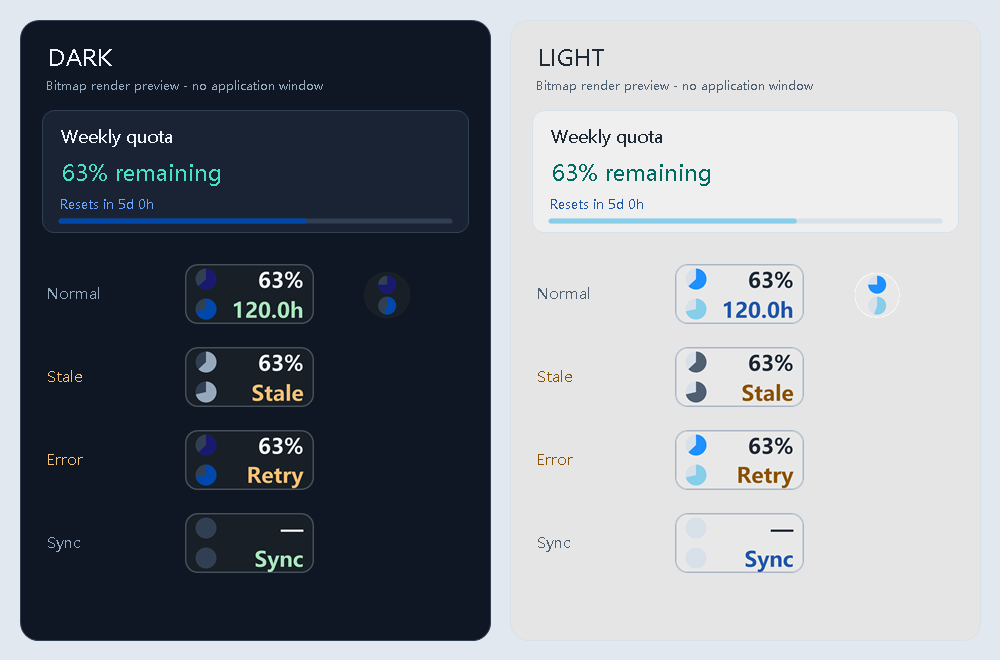
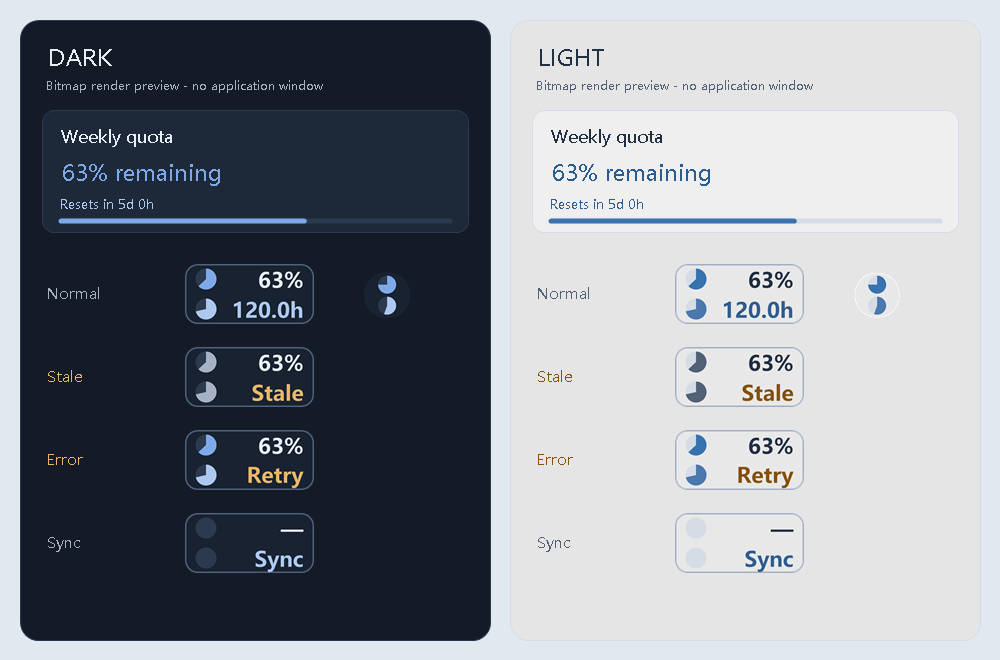
Unify dark and light blue palettes with visible text and graphics

diff --git a/tests/ThemeTests.cs b/tests/ThemeTests.cs
@@ -98,22 +98,31 @@ internal static class ThemeTests
         }
         foreach (string selectedMode in new[] { "dark", "light" }) {
             string mode = selectedMode;
-            Run(mode + " widget and glyph use the selected disk colours", delegate {
+            Run(mode + " normal accents and rendered disks share a coherent blue palette", delegate {
                 SetMode(mode); QuotaWindow full = Sample(); full.UsedPercent = 0; full.ResetsAtUtc = Now.AddDays(7);
                 using (Bitmap widget = Render(2, full, false, false, ""))
                 using (Bitmap glyph = WidgetRenderer.RenderGlyph(64)) {
                     Color quota = widget.GetPixel(28, 20), time = widget.GetPixel(28, 60);
-                    if (mode == "dark") {
-                        foreach (Color pixel in new[] { quota, glyph.GetPixel(36, 18) })
-                            Check(ColorDistance(pixel, Color.FromArgb(25, 25, 112)) < 5, "dark quota disk is MidnightBlue #191970");
-                        foreach (Color pixel in new[] { time, glyph.GetPixel(36, 46) })
-                            Check(ColorDistance(pixel, Color.FromArgb(0, 71, 171)) < 5, "dark time disk is CobaltBlue #0047AB");
-                    } else {
-                        foreach (Color pixel in new[] { quota, glyph.GetPixel(36, 18) })
-                            Check(ColorDistance(pixel, Color.FromArgb(30, 144, 255)) < 5, "light quota disk is DodgerBlue #1E90FF");
-                        foreach (Color pixel in new[] { time, glyph.GetPixel(36, 46) })
-                            Check(ColorDistance(pixel, Color.FromArgb(135, 206, 235)) < 5, "light time disk is SkyBlue #87CEEB");
+                    foreach (Color accent in new[] { quota, time, glyph.GetPixel(36, 18), glyph.GetPixel(36, 46), Theme.Aqua, Theme.Blue, WidgetRenderer.TimeTextColor })
+                        Check(accent.GetHue() >= 205 && accent.GetHue() <= 225, "normal highlights stay in the same blue family instead of mixing green and blue");
+                    Check(ColorDistance(quota, time) >= 20, "quota and time keep subtly distinct shades");
+                }
+            });
+            Run(mode + " rendered disks and progress fills have 3:1 contrast against their track and surfaces", delegate {
+                SetMode(mode); QuotaWindow full = Sample(); full.UsedPercent = 0; full.ResetsAtUtc = Now.AddDays(7);
+                using (Bitmap widget = Render(2, full, false, false, ""))
+                using (Bitmap stale = Render(2, full, true, false, ""))
+                using (Bitmap glyph = WidgetRenderer.RenderGlyph(64)) {
+                    double minimum = Double.MaxValue;
+                    foreach (Color fill in new[] { widget.GetPixel(28, 20), widget.GetPixel(28, 60), stale.GetPixel(28, 20), glyph.GetPixel(36, 18), glyph.GetPixel(36, 46), Theme.WidgetQuotaColor }) {
+                        foreach (Color adjacent in new[] { Theme.Border, Theme.Card, WidgetRenderer.Surface }) {
+                            double front = Luminance(fill), back = Luminance(adjacent);
+                            double ratio = (Math.Max(front, back) + .05) / (Math.Min(front, back) + .05);
+                            minimum = Math.Min(minimum, ratio);
+                            Check(ratio >= 3, "visible fill requires 3:1 against adjacent track/surface, got " + ratio.ToString("0.00", System.Globalization.CultureInfo.InvariantCulture));
+                        }
                     }
+                    Console.WriteLine("GRAPHICS " + mode + " minimum=" + minimum.ToString("0.00", System.Globalization.CultureInfo.InvariantCulture) + ":1");
                 }
             });
             Run(mode + " semantic text meets 4.5:1 contrast on its actual surfaces", delegate {
@@ -211,7 +220,7 @@ internal static class ThemeTests
                 PreviewText(graphics, "Weekly quota", left + 38, 125, 17, Theme.Text); PreviewText(graphics, "63% remaining", left + 38, 157, 22, Theme.Aqua);
                 PreviewText(graphics, "Resets in 5d 0h", left + 38, 194, 13, Theme.Blue);
                 Theme.Rounded(graphics, new RectangleF(left + 38, 218, 394, 5), 2.5f, Theme.Border, null);
-                Theme.Rounded(graphics, new RectangleF(left + 38, 218, 394 * .63f, 5), 2.5f, Theme.WidgetTimeColor, null);
+                Theme.Rounded(graphics, new RectangleF(left + 38, 218, 394 * .63f, 5), 2.5f, Theme.WidgetQuotaColor, null);
                 string[] labels = { "Normal", "Stale", "Error", "Sync" };
                 for (int row = 0; row < 4; row++) {
                     int top = 264 + row * 83; PreviewText(graphics, labels[row], left + 24, top + 19, 15, row == 1 || row == 2 ? Theme.Warning : Theme.Muted);

diff --git a/src/Theme.cs b/src/Theme.cs
@@ -9,15 +9,15 @@ namespace CodexQuotaLite
     internal static class Theme
     {
         private static readonly Palette Dark = new Palette("dark",
-            Color.FromArgb(16, 23, 36), Color.FromArgb(25, 35, 51), Color.FromArgb(48, 63, 82),
-            Color.FromArgb(238, 245, 250), Color.FromArgb(150, 169, 188), Color.FromArgb(70, 224, 196),
-            Color.FromArgb(106, 163, 255), Color.FromArgb(245, 193, 117),
-            Color.FromArgb(24, 31, 39), Color.FromArgb(25, 25, 112), Color.FromArgb(0, 71, 171), Color.FromArgb(168, 229, 188), Color.FromArgb(66, 77, 86));
+            Color.FromArgb(20, 27, 38), Color.FromArgb(29, 40, 56), Color.FromArgb(43, 58, 78),
+            Color.FromArgb(230, 237, 245), Color.FromArgb(164, 178, 196), Color.FromArgb(126, 169, 232),
+            Color.FromArgb(173, 200, 238), Color.FromArgb(230, 182, 106),
+            Color.FromArgb(24, 34, 48), Color.FromArgb(126, 169, 232), Color.FromArgb(173, 200, 238), Color.FromArgb(173, 200, 238), Color.FromArgb(75, 94, 119));
         private static readonly Palette Light = new Palette("light",
-            Color.FromArgb(229, 229, 229), Color.FromArgb(239, 239, 239), Color.FromArgb(216, 224, 234),
-            Color.FromArgb(31, 42, 55), Color.FromArgb(79, 96, 114), Color.FromArgb(0, 107, 97),
-            Color.FromArgb(32, 86, 170), Color.FromArgb(139, 82, 0),
-            Color.FromArgb(232, 232, 232), Color.FromArgb(30, 144, 255), Color.FromArgb(135, 206, 235), Color.FromArgb(32, 86, 170), Color.FromArgb(174, 185, 199));
+            Color.FromArgb(229, 229, 229), Color.FromArgb(239, 239, 239), Color.FromArgb(214, 220, 229),
+            Color.FromArgb(35, 48, 68), Color.FromArgb(82, 97, 118), Color.FromArgb(41, 92, 146),
+            Color.FromArgb(49, 95, 145), Color.FromArgb(132, 82, 12),
+            Color.FromArgb(232, 232, 232), Color.FromArgb(57, 115, 175), Color.FromArgb(75, 120, 173), Color.FromArgb(49, 95, 145), Color.FromArgb(167, 179, 196));
         private static Palette current = Dark;
 
         internal static void Apply(string mode) { current = mode == "light" ? Light : Dark; }

diff --git a/scripts/render-previews.py b/scripts/render-previews.py
@@ -11,17 +11,17 @@ from PIL import Image, ImageDraw, ImageFont
 
 SCALE = 4
 OUTPUT_WIDTH = 360
-BG = (16, 23, 36)
-CARD = (25, 35, 51)
-BORDER = (48, 63, 82)
-TEXT = (238, 245, 250)
-MUTED = (150, 169, 188)
-AQUA = (70, 224, 196)
-BLUE = (106, 163, 255)
-WIDGET_BG = (24, 31, 39)
-QUOTA = (25, 25, 112)
-TIME = (0, 71, 171)
-TIME_TEXT = (168, 229, 188)
+BG = (20, 27, 38)
+CARD = (29, 40, 56)
+BORDER = (43, 58, 78)
+TEXT = (230, 237, 245)
+MUTED = (164, 178, 196)
+AQUA = (126, 169, 232)
+BLUE = (173, 200, 238)
+WIDGET_BG = (24, 34, 48)
+QUOTA = (126, 169, 232)
+TIME = (173, 200, 238)
+TIME_TEXT = BLUE
 
 
 class Canvas:
@@ -100,7 +100,7 @@ def render(plan, english, destination, fonts, version):
         canvas.text(label, 32, y + 8, 215, 22, 12, bold=True)
         canvas.text(str(amount) + "%", 253, y + 7, 75, 23, 19, AQUA, True)
         canvas.round(32, y + 37, 296, 5, 2.5, BORDER)
-        canvas.round(32, y + 37, 296 * amount / 100, 5, 2.5, TIME)
+        canvas.round(32, y + 37, 296 * amount / 100, 5, 2.5, QUOTA)
         canvas.text(countdown, 32, y + 49, 170, 17, 9.5, BLUE)
         canvas.text(reset, 204, y + 49, 124, 17, 9.5, MUTED, align="right")
     canvas.text("Latest reset  09-29 16:09  Regular" if english else "最近重置公告  09-29 16:09  即时重置", 20, top + 84 + cards_height + 10, 262, 28, 11, MUTED)
@@ -120,7 +120,7 @@ def render(plan, english, destination, fonts, version):
     canvas.round(268, top + footer_y, 72, 28, 0, CARD, BORDER)
     canvas.text("Refresh" if english else "立即刷新", 268, top + footer_y, 72, 28, 11, align="center")
     icon_y = top + app_height + 12
-    canvas.round(88.5, icon_y + .5, 85, 39, 8, WIDGET_BG, (66, 77, 86))
+    canvas.round(88.5, icon_y + .5, 85, 39, 8, WIDGET_BG, (75, 94, 119))
     canvas.disk(95, icon_y + 3, 14, windows[0][1], QUOTA)
     hours_left, window_hours = (3.7, 5) if plan == "Plus" else (108.0, 168)
     canvas.disk(95, icon_y + 23, 14, hours_left / window_hours * 100, TIME)

diff --git a/src/DetailsForm.cs b/src/DetailsForm.cs
@@ -198,7 +198,7 @@ namespace CodexQuotaLite
    Theme.Rounded(g,new RectangleF(.5f,.5f,Width-1,Height-1),11*s,Theme.Card,selected?Theme.Border:(Color?)null);
    Theme.Write(g,UiText.WindowLabel(window.Label),12,8,width-105,22,12,Theme.Text,true,s);Theme.Write(g,pending?UiText.T("待更新","Pending"):Theme.Percent(window.RemainingPercent),width-87,7,75,23,pending?13:19,color,true,s);
    RectangleF track=new RectangleF(12*s,37*s,(width-24)*s,5*s);Theme.Rounded(g,track,2.5f*s,Theme.Border,null);
-   if(!pending&&window.RemainingPercent.HasValue&&window.RemainingPercent.Value>0){track.Width*=(float)(window.RemainingPercent.Value/100);Theme.Rounded(g,track,2.5f*s,stale?Theme.Muted:Theme.WidgetTimeColor,null);}
+   if(!pending&&window.RemainingPercent.HasValue&&window.RemainingPercent.Value>0){track.Width*=(float)(window.RemainingPercent.Value/100);Theme.Rounded(g,track,2.5f*s,stale?Theme.Muted:Theme.WidgetQuotaColor,null);}
    string countdown=stale?UiText.T("上次结果 · 已过期","Previous result · Out of date"):pending?UiText.T("已重置 · 待更新","Reset reached · Pending"):Theme.ResetText(window,now);
    Theme.Write(g,countdown,12,49,width-150,17,9.5f,stale||pending?Theme.Warning:Theme.Blue,false,s);
    string reset=window.ResetsAtUtc.HasValue?window.ResetsAtUtc.Value.ToLocalTime().ToString("MM-dd HH:mm"):UiText.T("重置时间未知","Reset unknown");

diff --git a/src/UiDarkControls.cs b/src/UiDarkControls.cs
@@ -176,7 +176,7 @@ namespace CodexQuotaLite
                 {
                     int index = first + row;
                     Rectangle rect = DetailsLayout.PopupRowBounds(Width, rowHeight, row);
-                    if (index == active) Theme.Rounded(e.Graphics, rect, 5, Theme.Border, null);
+                    if (index == active) Theme.Rounded(e.Graphics, rect, 5, Theme.Border, Theme.Aqua);
                     Rectangle text = DetailsLayout.PopupTextBounds(rect);
                     TextRenderer.DrawText(e.Graphics, Convert.ToString(owner.Items[index]), Font, text, Theme.Text,
                         DetailsLayout.SelectorTextFlags);

diff --git a/README.en.md b/README.en.md
@@ -8,7 +8,7 @@ A lightweight Windows widget for Codex quota and reset time, next to the notific
 
 For Windows x64.
 
-Local four-colour revision (still v1.0.4): taskbar and tray disks use MidnightBlue / CobaltBlue in dark mode and DodgerBlue / SkyBlue in light mode. Detail progress bars use CobaltBlue / SkyBlue respectively; text, backgrounds and layout are unchanged. This revision has not replaced the GitHub release assets linked above.
+Local unified-palette revision (still v1.0.4): dark mode uses dark slate surfaces with soft blue highlights; light mode uses gentle gray surfaces with muted blue accents. Disks, quota values, countdowns, progress bars and menus share one blue colour family, with text and meaningful graphics checked for contrast. This revision has not replaced the GitHub release assets linked above.
 
 ![CodexUsage taskbar widget](assets/widget-preview.png)
 
@@ -48,7 +48,7 @@ Requires Windows x64, .NET Framework 4.8 or a newer 4.x version, and Codex insta
 
 Hover for a quick summary; move away or click to dismiss it. Right-click for the menu. The detail header shows the version and a link to the GitHub project.
 
-Change appearance with the Light mode / Dark mode button in the details view, or right-click the widget or tray icon and choose Appearance → Dark mode / Light mode. Language, theme and quota selection share one row. The upper quota / lower time disks use MidnightBlue #191970 / CobaltBlue #0047AB in dark mode, and DodgerBlue #1E90FF / SkyBlue #87CEEB in light mode. Detail quota progress bars use #0047AB in dark mode and #87CEEB in light mode; backgrounds, text colours and stale-state colours are unchanged. Theme switching needs no restart; the next launch restores your choice.
+Change appearance with the Light mode / Dark mode button in the details view, or right-click the widget or tray icon and choose Appearance → Dark mode / Light mode. Language, theme and quota selection share one row. Dark mode pairs dark slate surfaces with light blue accents; light mode pairs soft gray surfaces with muted blue accents. Quota progress bars and quota disks share the primary accent. Normal states use one blue family; stale states use neutral gray and amber warnings. Active dropdown rows have an accent border. Theme switching needs no restart; the next launch restores your choice.
 
 To update, exit the old version from the tray, then replace the EXE. Settings live in `%LOCALAPPDATA%\CodexUsage`; existing settings beside the EXE are imported on first run.
 
@@ -56,7 +56,7 @@ See [TESTING](docs/TESTING.md) for verification scope.
 
 ## Development
 
-The current version is **v1.0.4** (2026-09-30), with executable file and assembly versions **1.0.4.0**. It includes dark/light switching, a compact settings row, protocol input and announcement cache fixes, and recovery from taskbar occlusion on desktop reorder events. All 263 automated checks passed before release. See [TESTING](docs/TESTING.md) for native GUI, live Plus-account and other multi-display/DPI verification limits.
+The current version is **v1.0.4** (2026-09-30), with executable file and assembly versions **1.0.4.0**. It includes dark/light switching, a compact settings row, protocol input and announcement cache fixes, and recovery from taskbar occlusion on desktop reorder events. The local unified-palette revision passes all 265 automated checks, including text and graphical contrast. See [TESTING](docs/TESTING.md) for native GUI, live Plus-account and other multi-display/DPI verification limits.
 
 ```powershell
 ./scripts/build.ps1

diff --git a/docs/TESTING.md b/docs/TESTING.md
@@ -81,6 +81,14 @@ Stacking tests production ordering decisions, event filtering and queue coalesci
 
 ## 结果 / Results
 
+2026-09-30 本地统一配色修订（仍为 1.0.4）：重整深浅主题的背景、正文、主次蓝色强调与警告色，进度条使用额度饼图主色，下拉活动行增加强调边框。新增图形对比度回归并替换过时的固定色样断言，旧版为 23 通过/4 失败（包括深色图形 1.38:1、浅色 2.43:1）；最终构建和 All **265 项通过、0 失败**：Domain 37、Bridge 14、ResetFeed 46、Theme 27、Layout 121、Stacking 20。实际渲染填色相对轨道/背景的最低对比度为深色 4.80:1、浅色 3.32:1，所测正文/语义文字最低为深色 4.80:1、浅色 5.01:1。已查看位图和完成独立配色/源码审查；本构建仍未运行原生 GUI 交互。
+
+The local unified-palette revision on 2026-09-30 retains version 1.0.4. Surfaces, text, blue accents and warning colours are coordinated; progress bars use the quota disk accent and active dropdown rows gain an accent outline. New graphical-contrast regressions and updated hue checks produced 23 passes/4 failures on the previous palette, including graphical ratios of 1.38:1 dark and 2.43:1 light. The final build and All passed **265 checks, zero failures**: Domain 37, Bridge 14, ResetFeed 46, Theme 27, Layout 121, Stacking 20. Minimum measured rendered-fill contrast against tracks/surfaces is 4.80:1 dark and 3.32:1 light; tested semantic text minima are 4.80:1 dark and 5.01:1 light. Bitmaps and code were independently reviewed; native GUI interaction with this build was not executed.
+
+检查目标为文字至少 4.5:1、有效图形至少 3:1，参考 W3C 的[文字对比度说明](https://www.w3.org/WAI/WCAG22/Understanding/contrast-minimum.html)与[非文字对比度说明](https://www.w3.org/WAI/WCAG22/Understanding/non-text-contrast.html)。检查对象为本套件覆盖的颜色组合和绘图产物，不是整个原生应用的无障碍认证。
+
+The checks target 4.5:1 text and 3:1 meaningful graphical contrast, following the linked W3C guidance. They cover the tested colour combinations and rendered graphics, not full accessibility certification of the native application.
+
 2026-09-30 本地四色配色修订（仍为 1.0.4，未替换发行附件）：深色饼图 #191970/#0047AB，浅色 #1E90FF/#87CEEB；详情进度条分别为 #0047AB/#87CEEB。其余文字、背景、布局和原过期状态颜色保持不变。All 263 项通过后，按最终要求保留原倒计时文字色并更新详情进度条，重新构建与 Theme 25/25 检查均通过。最终最低文字对比度为深色 6.24:1、浅色 4.81:1；已检查配色位图，原生 GUI 交互未执行。指定的 MidnightBlue 饼图本身偏暗，文字对比度检查不代表图形对比度达到同一数值。
 
 The local four-colour revision on 2026-09-30 retains version 1.0.4 and has not replaced release assets. Dark disks use #191970/#0047AB; light disks use #1E90FF/#87CEEB. Detail progress bars use #0047AB/#87CEEB. Other text, backgrounds, layout and stale-state colours are unchanged. After All passed 263 checks, the final countdown text was kept unchanged and detail progress fills updated; the final build and Theme 25/25 passed again. Minimum text contrast is 6.24:1 dark and 4.81:1 light. Rendered bitmaps were inspected; native GUI interaction was not executed. The specified MidnightBlue disk is deliberately dark; text contrast results do not describe graphical contrast.

diff --git a/README.md b/README.md
@@ -8,7 +8,7 @@
 
 适用于 Windows x64。
 
-本地四色配色修订（版本仍为 v1.0.4）：任务栏与托盘饼图在深色使用 MidnightBlue / CobaltBlue，浅色使用 DodgerBlue / SkyBlue；弹窗进度条分别使用 CobaltBlue / SkyBlue，文字、背景和布局保持原样。该修订尚未替换上方 GitHub 发行附件。
+本地统一配色修订（版本仍为 v1.0.4）：深色采用深蓝灰背景与柔和亮蓝强调，浅色采用柔和浅灰背景与沉稳蓝色强调。饼图、额度数字、倒计时、进度条与菜单保持同一蓝色系，并验证文字和有效图形的对比度。该修订尚未替换上方 GitHub 发行附件。
 
 ![CodexUsage 任务栏小条](assets/widget-preview.png)
 
@@ -48,7 +48,7 @@
 
 悬停额度条可查看简要说明，移开或点击即关闭；右键打开菜单。详情顶部可查看版本号，并打开 GitHub 项目主页。
 
-切换外观：点击详情页中的“浅色模式／深色模式”按钮，或在额度条／托盘图标上右键，选择“外观 → 深色模式／浅色模式”。语言、主题和额度选择位于同一行。上方额度／下方时间饼图在深色模式分别为 MidnightBlue #191970／CobaltBlue #0047AB，浅色模式分别为 DodgerBlue #1E90FF／SkyBlue #87CEEB。详情弹窗的额度进度条在深色使用 #0047AB、浅色使用 #87CEEB；背景和文字颜色保持原样，过期状态仍使用原提示色。主题切换无需重启；下次启动恢复上次选择。
+切换外观：点击详情页中的“浅色模式／深色模式”按钮，或在额度条／托盘图标上右键，选择“外观 → 深色模式／浅色模式”。语言、主题和额度选择位于同一行。深色以深蓝灰背景配浅蓝文字和饼图，浅色以柔和浅灰背景配蓝色文字和饼图；额度进度条与额度饼图使用同一主强调色。普通状态统一为蓝色系，过期状态使用中性灰和琥珀色提示，下拉列表活动行有清晰的强调色边框。主题切换无需重启；下次启动恢复上次选择。
 
 升级时先从托盘退出旧版，再替换 EXE。设置保存在 `%LOCALAPPDATA%\CodexUsage`，首次运行会导入同目录旧版的设置。
 
@@ -56,7 +56,7 @@
 
 ## 开发
 
-当前版本为 **v1.0.4**（2026-09-30），EXE 文件与程序集版本为 **1.0.4.0**。包含深浅主题切换、单行设置布局、通信输入编码与公告缓存修复，以及任务栏遮挡浮条时按层级变化事件恢复。发布前 263 项自动检查通过；原生 GUI、真实 Plus 账号及其他多屏幕/DPI 场景的验证范围见 [测试说明](docs/TESTING.md)。
+当前版本为 **v1.0.4**（2026-09-30），EXE 文件与程序集版本为 **1.0.4.0**。包含深浅主题切换、单行设置布局、通信输入编码与公告缓存修复，以及任务栏遮挡浮条时按层级变化事件恢复。本地统一配色修订通过 265 项自动检查（包含图形与文字对比度）；原生 GUI、真实 Plus 账号及其他多屏幕/DPI 场景的验证范围见 [测试说明](docs/TESTING.md)。
 
 ```powershell
 ./scripts/build.ps1

diff --git a/CHANGELOG.md b/CHANGELOG.md
@@ -2,8 +2,8 @@
 
 ## 1.0.4 本地配色修订 / Local palette revision — Unreleased
 
-- 任务栏与托盘的额度／时间饼图：深色改为 MidnightBlue #191970／CobaltBlue #0047AB，浅色改为 DodgerBlue #1E90FF／SkyBlue #87CEEB。详情弹窗进度条分别为深色 #0047AB／浅色 #87CEEB。文字、背景、布局、过期提示、功能与版本号不变。
-  Taskbar and tray quota/time disks use MidnightBlue #191970 / CobaltBlue #0047AB in dark mode and DodgerBlue #1E90FF / SkyBlue #87CEEB in light mode. Detail progress bars use #0047AB / #87CEEB respectively. Text, backgrounds, layout, stale-state styling, functionality and version are unchanged.
+- 统一本地深浅模式配色：深色为深蓝灰底与柔和亮蓝，浅色为柔和浅灰底与沉稳蓝色；额度数字、饼图、倒计时和进度条使用协调的蓝色强调，警告使用独立琥珀色。下拉列表活动行增加强调边框，验证文字与图形对比度；布局、功能与版本号不变。
+  Unify dark/light palettes: dark slate surfaces with soft blue highlights, and gentle gray surfaces with muted blue accents. Quota values, disks, countdowns and progress bars use coordinated blues, with separate amber warnings. Add an accent outline to active dropdown rows and verify text/graphic contrast; layout, functionality and version are unchanged.
 
 ## 1.0.4 — 2026-09-30
 
